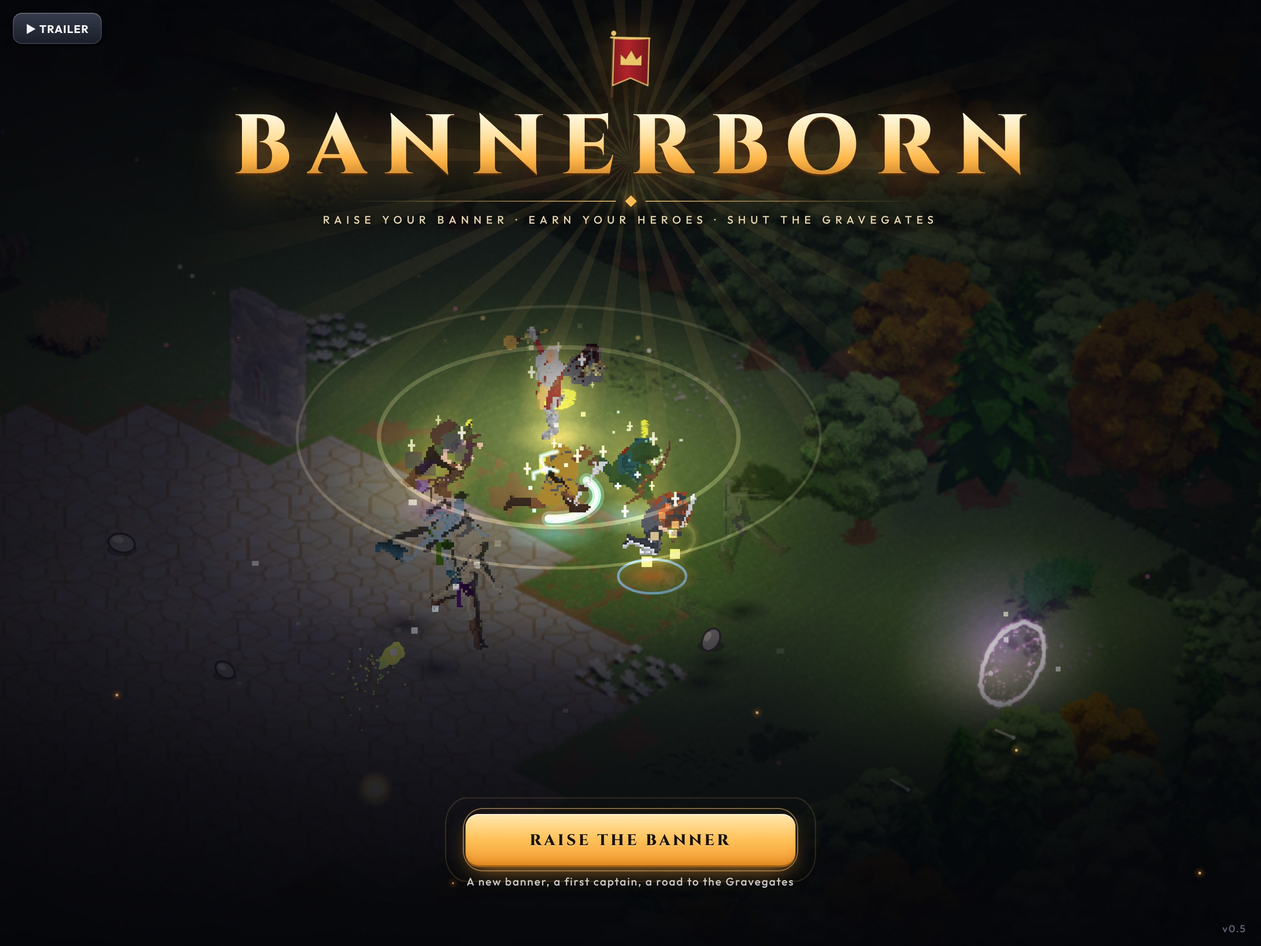
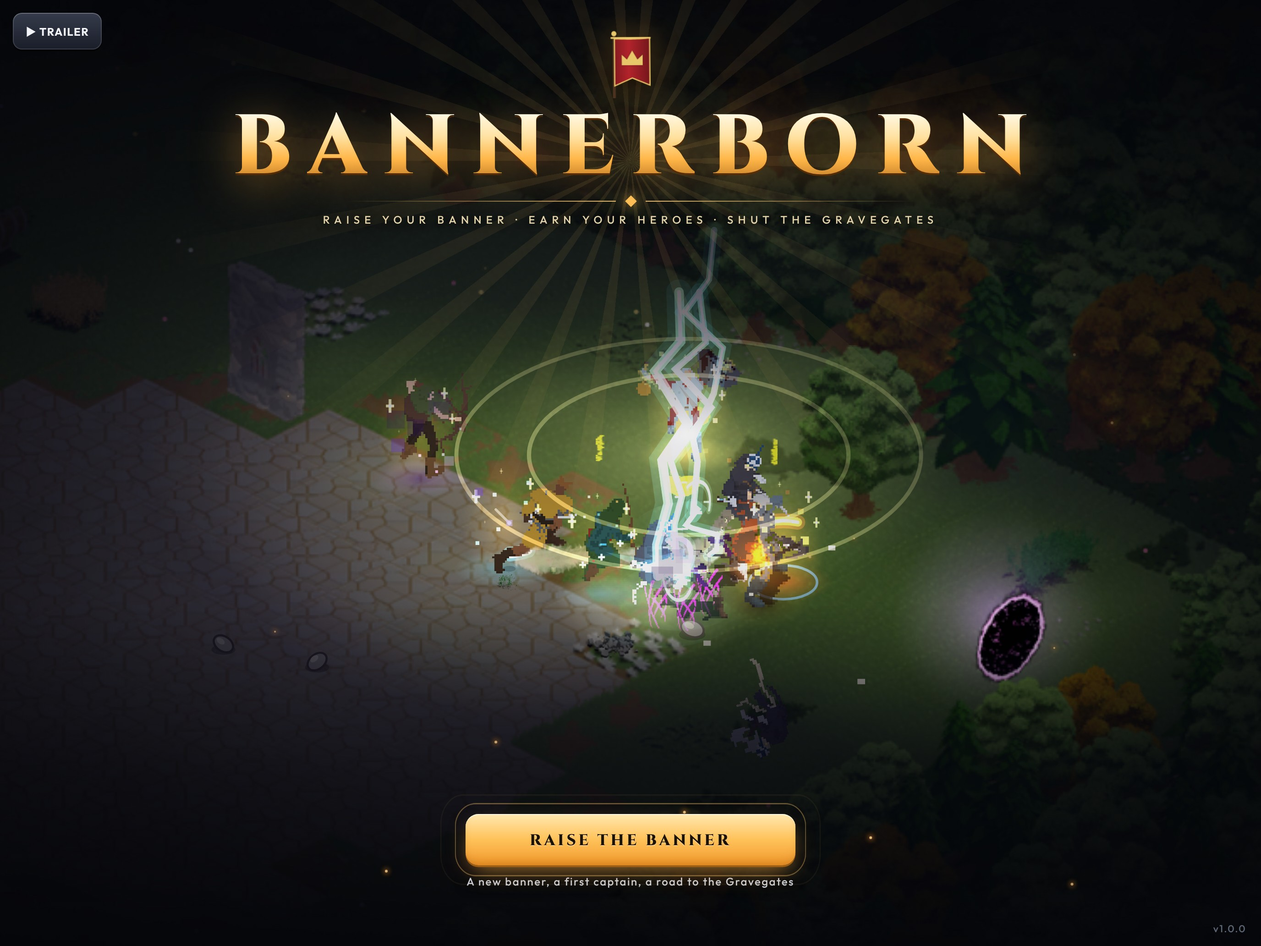
Bannerborn: a new trailer cut, ten store screenshots, the listing brought up to date
The trailer opens on the opening film's drawn Gravegate and the banner raised
(BB.Opening), and adds a stand against the clock and an expedition's road.
Store screenshots add the Play page, a gate choice and a stand. The campaign
screen uses the room the hidden tab bar left, so the Battle button no longer
sits over the enemy list on short screens.

Claude-Session: https://claude.ai/code/session_01U68ANs6N7QZonJcRoZFkCE

diff --git a/bannerborn/js/trailer.js b/bannerborn/js/trailer.js
@@ -1,6 +1,7 @@
-// Bannerborn — the trailer: under a minute, cut from the game itself. Real battles (a full-strength team, already in
-// the thick of it), a summoning, the campaign's land and the camp, cut on the beat of the boss drums with a line of
-// text over each. Everything on screen is drawn from the trailer's own clock, so it can be stepped frame by frame and
+// Bannerborn — the trailer: about a minute, cut from the game itself. Two shots of the opening film's drawn art (the
+// Gravegate, the banner raised), real battles (a full-strength team, already in the thick of it), a stand against the
+// clock, an expedition's road, a summoning, the campaign's land and the camp, cut on the beat of the boss drums with a
+// line of text over each. Everything on screen is drawn from the trailer's own clock, so it can be stepped frame by frame and
 // recorded (tools/record-trailer.js), with its sound rendered from the same clock.
 (function () {
   const BB = window.BB, UI = BB.UI;
@@ -12,14 +13,16 @@
 
   // the cut: lengths in beats
   const CUT = [
-    { b: 12, k: 'gate', lines: [[0.5, 2.9, 'The Gravegates stand open.'], [3.2, 5.9, 'The dead walk the old roads.']] },
-    { b: 8, k: 'scene', s: 'camp', z: [1.0, 1.28], cap: 'Raise your banner', flash: 1, horn: 1 },
-    { b: 10, k: 'summon', cap: 'Earn your heroes' },
+    { b: 12, k: 'art', a: 'gate', sh: { burstAt: 2.7, veshAt: 4.5 }, lines: [[0.4, 2.6, 'The Gravegates stand open.'], [3.2, 5.9, 'The dead walk the old roads.']] },
+    { b: 8, k: 'art', a: 'raise', sh: { raiseAt: 2.0, words: [['RAISE', 0.9, 0.31], ['YOUR', 1.45, 0.47], ['BANNER', 2.0, 0.66]] }, flash: 1, horn: 1 },
+    { b: 8, k: 'summon', cap: 'Earn your heroes' },
     { b: 6, k: 'scene', s: 'muster', z: [0.82, 0.96], cap: 'One by one, a warband' },
-    { b: 8, k: 'scene', s: 'a', z: [1.02, 1.18], cap: 'They fight on their own', flash: 1, drums: 1 },
+    { b: 6, k: 'scene', s: 'a', z: [1.02, 1.18], cap: 'They fight on their own', flash: 1, drums: 1 },
     { b: 8, k: 'scene', s: 'b', z: [1.2, 1.04], cap: 'You call the ultimates' },
     { b: 6, k: 'scene', s: 'c', z: [1.08, 1.26], cap: 'Break what the dead build' },
-    { b: 6, k: 'scene', s: 'market', z: [0.9, 1.04], cap: 'A camp that is a place' },
+    { b: 6, k: 'scene', s: 'stand', z: [1.0, 1.16], cap: 'Stand until the horn' },
+    { b: 8, k: 'scene', s: 'trek', z: [0.9, 1.08], cap: 'One long road · three gates' },
+    { b: 4, k: 'scene', s: 'market', z: [0.9, 1.04], cap: 'A camp that is a place' },
     { b: 6, k: 'land', z: [0.86, 0.98], cap: 'Eight lands · fifty-four stages' },
     { b: 2, k: 'scene', s: 'a', z: [1.5, 1.62] }, { b: 2, k: 'scene', s: 'c', z: [1.62, 1.5] }, { b: 2, k: 'scene', s: 'b', z: [1.45, 1.6] }, { b: 2, k: 'scene', s: 'a', z: [1.7, 1.52] },
     { b: 5, k: 'black', big: 'And at the end of every road' },
@@ -27,7 +30,7 @@
     { b: 8, k: 'scene', s: 'lord', z: [1.0, 1.24], name: 'The Hollow King', sub: 'beyond him', flash: 1, drums: 1 },
     { b: 1, k: 'scene', s: 'a', z: [1.6, 1.6], quick: 1 }, { b: 1, k: 'scene', s: 'c', z: [1.5, 1.5], quick: 1 }, { b: 1, k: 'scene', s: 'b', z: [1.6, 1.6], quick: 1 }, { b: 1, k: 'scene', s: 'lord', z: [1.5, 1.5], quick: 1 },
     { b: 1, k: 'scene', s: 'a', z: [1.4, 1.4], quick: 1 }, { b: 1, k: 'scene', s: 'c', z: [1.7, 1.7], quick: 1 }, { b: 1, k: 'scene', s: 'boss', z: [1.7, 1.7], quick: 1 }, { b: 1, k: 'scene', s: 'b', z: [1.5, 1.5], quick: 1 },
-    { b: 16, k: 'title' },
+    { b: 14, k: 'title' },
   ];
 
   // ---------------------------------------------------------------- the scenes, built and warmed before the first frame
@@ -45,7 +48,10 @@
     await step(0.3);
     S.a = await BB.stageScene({ idx: 4, over: 0, warm: 7, tick: ['sigs', 'sturdy'] }); await step(0.45);
     S.b = await BB.stageScene({ idx: 13, over: 0, archs: ['knight', 'monk', 'mage', 'ranger', 'spearman'], ench: ['holy', 'storm', 'fire', 'frost', 'shadow'], warm: 8, tick: ['ults', 'sigs', 'sturdy'] }); await step(0.6);
-    S.c = await BB.stageScene({ idx: 33, over: 0, archs: ['paladin', 'rogue', 'mage', 'ranger', 'barbarian'], ench: ['fire', 'poison', 'storm', 'frost', 'shadow'], warm: 8, tick: ['sigs', 'sturdy'] }); await step(0.75);
+    S.c = await BB.stageScene({ idx: 37, over: 0, archs: ['paladin', 'rogue', 'mage', 'ranger', 'barbarian'], ench: ['fire', 'poison', 'storm', 'frost', 'shadow'], warm: 8, tick: ['sigs', 'sturdy'] }); await step(0.75);
+    S.stand = await BB.stageScene({ idx: 33, over: 0, warm: 22, tick: ['sigs', 'sturdy'] }); await step(0.82);
+    S.trek = await BB.stageScene({ idx: 12, over: 0, mission: () => BB.expedition(2, 16, 7), warm: 26, tick: ['sigs', 'sturdy', (sc) => { if (sc.choice) sc.trekChoose(1); }] }); await step(0.87);
+    BB.Opening.hold();
     S.boss = await BB.stageScene({ idx: 23, over: 1, until: 'boss', warm: 3.2, tick: ['sigs', 'sturdy'] }); await step(0.9);
     { // the Hollow King, taking his tithe; and the two places of the camp, for a showcase warband
       S.lord = await BB.stageScene({ idx: 53, over: 2, until: 'boss', warm: 2.4, tick: ['sigs', 'sturdy'] });
@@ -68,7 +74,8 @@
     const cue = (at, fn) => T.cues.push([at, fn]);
     CUT.forEach((c, i) => {
       const sg = Object.assign({ t0: t, dur: c.b * BEAT }, c); T.segs.push(sg);
-      if (c.k === 'gate') { cue(t, () => BB.score('drone')); for (let b = 0; b < c.b - 3; b += 2) cue(t + b * BEAT, () => BB.score('tick')); cue(t + sg.dur - 1.7, () => BB.score('riser', 1.6)); }
+      if (c.a === 'gate') { cue(t, () => BB.score('drone')); for (let b = 0; b < c.b - 3; b += 2) cue(t + b * BEAT, () => BB.score('tick')); cue(t + c.sh.burstAt, () => { BB.score('braam', 1.1); BB.sfx('burst'); BB.sfx('slam'); }); cue(t + sg.dur - 1.7, () => BB.score('riser', 1.6)); }
+      else if (c.a === 'raise') { cue(t, () => { BB.score('boom'); BB.score('horn'); }); for (const w of c.sh.words) cue(t + w[1], () => { BB.score('hit', 0.9); BB.sfx('slam'); }); cue(t + 2.4, () => BB.sfx('rally')); }
       else if (c.k === 'summon') cue(t, () => BB.score('shimmer'));
       else if (c.k === 'black') { cue(t, () => { BB.music(null); BB.score('boom'); }); cue(t + sg.dur - 2.05, () => BB.score('riser', 2)); }
       else if (c.k === 'title') { cue(t, () => { BB.music(null); BB.score('braam', 1.2); BB.score('shimmer'); BB.sfx('boom'); }); cue(t + sg.dur - 3, () => BB.score('drone', false)); }
@@ -96,7 +103,7 @@
   function closeReveal() { if (!$('reveal').classList.contains('on')) return; const m = BB.sfxMute; BB.sfxMute = true; $('rvOk').click(); BB.sfxMute = m; }
   T.stop = function () {
     if (!T.on) return;
-    closeReveal(); T.on = false; T.loading = false; T.sc = {}; T.hero = null;
+    closeReveal(); T.on = false; T.loading = false; T.sc = {}; T.hero = null; BB.Opening.drop();
     if (T.record) BB.audioClock = null; else BB.score('drone', false);
     if (cv) cv.classList.remove('on'); $('trailerSkip').classList.remove('on');
     const d = T.done; T.done = null; if (d) d();
@@ -125,10 +132,6 @@
     const rw = w * (0.1 + 0.05 * k), ry = y + size * 0.95; g.fillStyle = 'rgba(255,206,120,0.7)'; g.fillRect(w / 2 - rw, ry, rw * 2, Math.max(1, h * 0.0022));
     g.restore();
   }
-  function fxFrame(key, frame, cx, cy, k, a) { // one frame of an effect sprite, held steady about the middle of its first frame
-    const A = BB.A.fx; if (!A || !A.meta.n[key]) return; const n = A.meta.n[key], F = A.meta.f[key], r = F[((frame % n) + n) % n], r0 = F[0]; if (!r || r[2] <= 1) return;
-    g.globalAlpha = a; g.imageSmoothingEnabled = false; g.drawImage(A.img, r[0], r[1], r[2], r[3], cx + (r[4] - r0[4] - r0[2] / 2) * k, cy + (r[5] - r0[5] - r0[3] / 2) * k, r[2] * k, r[3] * k); g.globalAlpha = 1;
-  }
 
   // ---------------------------------------------------------------- one frame
   T.frame = function (dt, ctx, W, H, dpr, z0) {
@@ -144,7 +147,7 @@
     }
     if (T.prime) { // colour every sprite the battles will need now, not during the first seconds of a clip
       T.prime = false; const lazy = BB.tintLazy;
-      for (const k of ['a', 'b', 'c', 'boss', 'lord', 'muster', 'market']) { const sc = T.sc[k]; if (!sc) continue; BB.tintLazy = false; sc.cam.zoom = z0; sc.renderField(ctx, W, H, dpr); }
+      for (const k of ['a', 'b', 'c', 'stand', 'trek', 'boss', 'lord', 'muster', 'market']) { const sc = T.sc[k]; if (!sc) continue; BB.tintLazy = false; sc.cam.zoom = z0; sc.renderField(ctx, W, H, dpr); }
       BB.tintLazy = lazy; black(); return;
     }
     T.t += dt;
@@ -166,17 +169,12 @@
       else if (sc.peaceful) { const c = sc.map.w / 2; sc.cam.x = c - 0.9 + (sg.k === 'title' ? 0.5 + k * 0.5 : k * 1.2); sc.cam.y = c + 0.5; sc.cam.zoom = z; }
       else { sc.cam.zoom = z * (sc.zoomK || 1); if (sc.tick) sc.tick(dt); }
       sc.update(dt, null); sc.render(ctx, W, H, dpr);
-    } else black();
+    } else if (sg.k === 'art') { ctx.save(); ctx.setTransform(1, 0, 0, 1, 0, 0); BB.Opening[sg.a](ctx, W, H, sg.sh, k, lt); ctx.restore(); }
+    else black();
     if (sg.k === 'summon') UI.revealRender(dt);
     // ---- over it
     const bar = Math.round(h * 0.105);
-    if (sg.k === 'gate') {
-      const a = cl(lt / 1.6) * cl((sg.dur - lt) / 0.25), cx = w / 2, by = h * 0.86, s = (h * 0.46 / 56) * (1 + k * 0.2);
-      g.globalCompositeOperation = 'lighter'; BB.drawGlow(g, '#7a4cff', cx, h * 0.56, h * 0.5 * (1 + k * 0.2), h * 0.42, a * (0.5 + 0.12 * Math.sin(T.t * 3)));
-      g.globalCompositeOperation = 'source-over'; fxFrame('portal', Math.floor(T.t * 12), cx, h * 0.56, s, a);
-      g.globalCompositeOperation = 'lighter'; g.fillStyle = '#c9a8ff';
-      for (let n = 0; n < 26; n++) { const q = (T.t * (0.05 + (n % 5) * 0.012) + n * 0.137) % 1, px = cx + Math.sin(n * 12.9898) * w * 0.3 * (0.3 + q), py = by - q * h * 0.7, sz = Math.max(1, h * 0.004); g.globalAlpha = a * Math.sin(q * Math.PI) * 0.8; g.fillRect(px, py, sz, sz); }
-      g.globalAlpha = 1; g.globalCompositeOperation = 'source-over';
+    if (sg.lines) {
       for (const [t0, t1, s2] of sg.lines) { const la = cl((lt - t0) / 0.5) * cl((t1 - lt) / 0.45); if (la > 0) { g.globalAlpha = la; spaced(s2, w / 2, h * 0.24, Math.min(w * 0.036, h * 0.062), 1, { font: TEXT, w: 600, it: 1, fill: '#e9e2d0' }); g.globalAlpha = 1; } }
     }
     if (sg.k === 'black') { const a = cl(lt / 0.5) * cl((sg.dur - lt) / 0.3), size = Math.min(w * 0.04, h * 0.07); g.globalAlpha = a; spaced(sg.big.toUpperCase(), w / 2, h / 2, size, size * (0.22 + 0.1 * k), { fill: '#e9e2d0', edge: 0, max: w * 0.88 }); g.globalAlpha = 1; }

diff --git a/bannerborn/test/sim-node.js b/bannerborn/test/sim-node.js
@@ -3,6 +3,8 @@
 //   LAG=n   heroes are n levels below the stage (default 1)      NOULT=1  nobody casts ultimates (Auto off, no taps)
 //   GEAR=1  every hero has a weapon and armour                   REAL=1  heroes as a player really has them: a level or two over the
 //                                                                stage, all four gear slots, every skill point (what the bot measured)
+//   BOT=1   REAL, but the warband the bot really had when it got stuck: stars 1 + a star every 22 stages, Rare recruits (Epic
+//           from 4-4), veterans a level over the stage and the newest hero two under. This is the preset to balance against.
 //   prints, per stage: wins, time, the lowest the team's health fell (wins only) and how many were left standing
 global.window = globalThis;
 const BB = require('../js/rules.js');
@@ -14,10 +16,12 @@ BB.ROSTER = []; BB.poolKeys = () => []; BB.npcKeys = () => [];
 BB.dirFromVec = function (dx, dy) { const sx = dx - dy, sy = (dx + dy) / 2; if (Math.abs(sx) + Math.abs(sy) < 1e-6) return null; const a = Math.atan2(sy, sx) * 180 / Math.PI; return ((Math.round(a / 45) % 8) + 8) % 8; };
 require('../js/world.js'); require('../js/battle.js'); require('../js/structures.js'); require('../js/modes.js'); require('../js/identity.js'); require('../js/tactics.js'); require('../js/signatures.js'); require('../js/epic.js'); require('../js/traits.js');
 if (process.env.DIFF) BB.DIFF.flat = process.env.DIFF.split(',').map(Number); // DIFF=health,damage: one raise for every level, to find what a land needs
+if (process.env.TK) Object.assign(BB.TEAM_K, JSON.parse(process.env.TK)); // TK='{"atk":[...]}': try other team-size tables
 const which = process.argv[2] || 'all', runs = +(process.argv[3] || 4);
-const REAL = !!process.env.REAL, LAG = process.env.LAG !== undefined ? +process.env.LAG : REAL ? -1.5 : 1;
+const BOT = !!process.env.BOT, REAL = BOT || !!process.env.REAL, LAG = process.env.LAG !== undefined ? +process.env.LAG : REAL ? -1.5 : 1;
 const list = which === 'all' ? BB.MISSIONS.map((_, i) => i) : [+which];
 const TREK = +process.env.TREK || 0; // TREK=n: instead of the stage, the expedition of land n at that stage's level (it picks the first choice at each gate, or CHOICE=1 the second)
+const LV = process.env.LV ? process.env.LV.split(',').map(Number) : null; // LV=24,20,19: each hero's level, as a real warband has them (a new recruit is behind)   STARS=n RAR=n: every hero's stars, every recruit's rarity
 let bad = 0;
 const comps = [['vanguard', 'ranger', 'warpriest', 'berserker', 'arcanist'], ['vanguard', 'lancer', 'ranger', 'arcanist', 'warpriest'], ['monk', 'shadowblade', 'warpriest', 'ranger', 'arcanist']];
 for (const idx of list) {
@@ -30,8 +34,8 @@ for (const idx of list) {
     const n = +process.env.TEAM || BB.slotsAt(idx); // as many heroes as the campaign has opened places for by this stage
     const lvl = Math.max(1, Math.round(M.level - LAG + (REAL && idx < 12 ? 0.5 : 0))); // the bot ran two levels over in the first lands, one after
     const heroes = comps[k % 3].slice(0, n).map((c, i) => {
-      const h = i === 0 ? BB.newCaptain() : BB.newHero({ calling: c, rarity: Math.min(3, Math.floor(idx / 8)), seed: i + k * 7 });
-      h.level = lvl; h.stars = Math.min(5, 1 + Math.floor(idx / 10));
+      const h = i === 0 ? BB.newCaptain() : BB.newHero({ calling: c, rarity: process.env.RAR ? +process.env.RAR : BOT ? (idx < 27 ? 1 : 2) : Math.min(3, Math.floor(idx / 8)), seed: i + k * 7 });
+      h.level = LV ? LV[Math.min(i, LV.length - 1)] : BOT ? Math.max(1, M.level + (i && i === n - 1 ? -2 : 1)) : lvl; h.stars = process.env.STARS ? +process.env.STARS : BOT ? Math.min(5, Math.round(1 + idx / 22)) : Math.min(5, 1 + Math.floor(idx / 10));
       for (const slot of (REAL ? BB.SLOTS : ['weapon', 'chest'])) if (REAL || process.env.GEAR || r() < Math.min(0.9, 0.3 + idx * 0.05)) h.gear[slot] = BB.makeItem(r, slot, Math.max(1, lvl - (REAL ? 0 : 1)), r() < (REAL ? 0.6 : 0.3) ? 1 : 0, slot === 'weapon' ? BB.weaponType(h.calling) : undefined);
       if (REAL) { let more = true, guard = 0; while (more && guard++ < 200) { more = false; for (const id in BB.TREE_BY_ID) if (BB.canLearn(h, id) && BB.learn(h, id)) more = true; } }
       return h;
@@ -49,6 +53,7 @@ for (const idx of list) {
       if (B.ents.length > 400 || B.projs.length > 2000 || B.timers.length > 500) { console.log('RUNAWAY', idx); bad++; break; }
     }
     const res = B.result ? (B.result.win ? 'win' : 'loss') : 'timeout';
+    if (process.env.VERBOSE) console.log('  run ' + k, comps[k % 3].slice(0, n).join('+'), res, Math.round(t) + 's', 'low ' + Math.round((B.lowHp === undefined ? 1 : B.lowHp) * 100) + '%', 'left ' + B.heroesAlive().length, 'foes left ' + B.foesAlive().length);
     agg.n++; if (res === 'win') { agg.w++; agg.t += t; agg.alive += B.heroesAlive().length; agg.low += B.lowHp === undefined ? 1 : B.lowHp; } if (res === 'timeout') { agg.to++; bad++; }
   }
   console.log((M.code + ' ' + M.name).padEnd(36), M.type.padEnd(7), 'L' + String(M.level).padEnd(3), 'team ' + (+process.env.TEAM || BB.slotsAt(idx)), 'win ' + agg.w + '/' + agg.n, 'avg ' + (agg.w ? Math.round(agg.t / agg.w) : '-') + 's', 'low ' + (agg.w ? Math.round(agg.low / agg.w * 100) + '%' : '-'), 'left ' + (agg.w ? (agg.alive / agg.w).toFixed(1) : '-'), agg.to ? 'TIMEOUTS ' + agg.to : '');

diff --git a/bannerborn/tools/store-shots.js b/bannerborn/tools/store-shots.js
@@ -25,8 +25,12 @@ const richSave = () => {
   S.heroes[0].stars = 5; S.heroes[0].level = 46;
   const r = BB.rng(11); for (const h of S.heroes) for (const slot of BB.SLOTS) h.gear[slot] = BB.makeItem(r, slot, h.level, Math.min(3, h.rarity + (r() < 0.4 ? 1 : 0)), slot === 'weapon' ? BB.weaponType(h.calling) : undefined);
   for (let i = 0; i < 9; i++) S.inventory.push(BB.makeItem(r, BB.SLOTS[i % 4], 44, 1 + (i % 3)));
+  S.salvage = 14; S.works = { forge: 3, shrine: 2, barracks: 4 }; S.relics = ['r1', 'r2', 'r3', 'r4', 'r5']; S.relic = 'r3'; S.stats.treks = 6; S.stats.endless = 23;
+  for (const k of ['relic', 'survive', 'trek', 'works']) S.seen['tip_' + k] = 1; // no first-time cards over a screenshot
   BB.autoFill(S); BB.persist();
 };
+// the same save in the middle of the war (the Cinderfields ahead), for the screens that show where you are
+const midWar = () => { const S = BB.save, at = BB.MISSIONS.findIndex((m) => m.code === '6-3'); BB.MISSIONS.forEach((m, i) => { if (i >= at) delete S.cleared[m.id]; }); BB.persist(); };
 
 (async () => {
   const browser = await chromium.launch();
@@ -46,16 +50,23 @@ const richSave = () => {
     await p.click('#bPlay'); await p.waitForFunction(() => BB.Cinema.on && !BB.Cinema.loading, null, { timeout: 30000 }); await wait(400); await p.click('#cineSkip');
     await p.waitForFunction(() => BB.UI.current === 'home', null, { timeout: 20000 });
     await p.evaluate(richSave); await p.evaluate(() => BB.loadHeroes(BB.save.heroes)); await p.evaluate(() => BB.testHooks.goCamp()); await wait(800);
-    await fight('5-2', 13); await shot('02-frostmarch'); await leave();
-    await p.click('.tab[data-tab=heroes]'); await p.waitForFunction(() => BB.testHooks.scene().muster, null, { timeout: 40000 }); await wait(3000); await shot('03-muster');
-    await p.click('#hsOpen'); await wait(600); await p.click('[data-r="tab-gear"]'); await wait(2400); await shot('04-hero');
+    await fight('7-3', 13); await shot('02-mirefen'); await leave();
+    await fight('6-6', 15); await shot('03-cinder-witch'); await leave();
+    await fight('2-7', 19); await shot('05-stand'); await leave();
+    await p.evaluate(midWar); await p.evaluate(() => BB.testHooks.goCamp()); await wait(600);
+    // an expedition, stopped at its first gate: the choice is the picture
+    await p.evaluate(() => BB.deployTrek()); await p.waitForFunction(() => BB.UI.current === 'hud', null, { timeout: 60000 });
+    await p.evaluate(() => { const s = BB.testHooks.scene(); for (const e of s.ents) if (e.side === 'hero') { e.hp = e.maxhp = 9e6; e.atk *= 6; } s.autoSkills = true; });
+    await p.waitForFunction(() => document.getElementById('mTrek').classList.contains('on'), null, { timeout: 180000 }); await wait(700); await shot('04-expedition');
+    await p.evaluate(() => { BB.UI.modal('mTrek', false); BB.testHooks.scene().paused = false; }); await leave();
+    await p.click('.tab[data-tab=play]'); await wait(1200); await shot('06-play');
+    await p.click('.tab[data-tab=heroes]'); await p.waitForFunction(() => BB.testHooks.scene().muster, null, { timeout: 40000 }); await wait(3000); await shot('07-muster');
+    await p.click('#hsOpen'); await wait(600); await p.click('[data-r="tab-gear"]'); await wait(2400); await shot('08-hero');
     await p.click('[data-r="back"]'); await wait(500);
-    await p.click('.tab[data-tab=shop]'); await p.waitForFunction(() => BB.testHooks.scene().market, null, { timeout: 40000 }); await wait(3000); await shot('05-market');
+    await p.click('.tab[data-tab=shop]'); await p.waitForFunction(() => BB.testHooks.scene().market, null, { timeout: 40000 }); await wait(3000); await shot('09-market');
     await p.click('.tab[data-tab=home]'); await wait(800);
-    await p.evaluate(() => BB.UI.openCampaign(BB.MISSIONS.findIndex((m) => m.code === '6-3'))); await wait(3500); await shot('06-campaign');
-    await p.evaluate(() => BB.testHooks.goCamp()); await wait(600);
-    await fight('6-6', 15); await shot('07-cinder-witch'); await leave();
-    console.log(name + ': 7 screenshots at ' + w * scale + '×' + h * scale);
+    await p.evaluate(() => BB.UI.openCampaign(BB.MISSIONS.findIndex((m) => m.code === '6-3'))); await wait(3500); await shot('10-campaign');
+    console.log(name + ': 10 screenshots at ' + w * scale + '×' + h * scale);
     await ctx.close();
   }
   if (!only || only.includes('feature')) { // Google Play's feature graphic: the title, without its buttons

diff --git a/bannerborn/js/opening.js b/bannerborn/js/opening.js
@@ -443,11 +443,14 @@
   }
 
   // ---------------------------------------------------------------- the film
-  C.SCENES.intro = async function () {
-    const cols = BB.BANNER_COLORS.concat(['#3a6a8a']), banners = []; for (let i = 0; i < 9; i++) banners.push(Object.assign({}, i === 8 ? BB.save.banner : { color: cols[i], sigil: BB.SIGILS[i % BB.SIGILS.length], trim: '#e8c66a' }));
-    A.clear();
+  function cast() {
+    const mine = (BB.save || BB.newSave(Date.now())).banner; // the trailer can run from the title, before there is a save
+    const cols = BB.BANNER_COLORS.concat(['#3a6a8a']), banners = []; for (let i = 0; i < 9; i++) banners.push(Object.assign({}, i === 8 ? mine : { color: cols[i], sigil: BB.SIGILS[i % BB.SIGILS.length], trim: '#e8c66a' }));
     // the ninth knight, and the Captain after them, wear what the game's Captain wears (BB.CAPTAIN_LOOK): great helm, steel, red
-    F = { banners, nine: A.NINE.map((o, i) => Object.assign({ color: banners[i].color, seed: i * 1.7 }, o)), capO: { helm: 'great', crest: true, weapon: 'sword', plate: '#8e98ac', color: banners[8].color, seed: 3 }, map: null, glass: null, bannerTex: BB.UI.bannerCanvas(BB.save.banner, 160, 250) };
+    return { banners, nine: A.NINE.map((o, i) => Object.assign({ color: banners[i].color, seed: i * 1.7 }, o)), capO: { helm: 'great', crest: true, weapon: 'sword', plate: '#8e98ac', color: banners[8].color, seed: 3 }, map: null, glass: null, bannerTex: BB.UI.bannerCanvas(mine, 160, 250) };
+  }
+  C.SCENES.intro = async function () {
+    A.clear(); F = cast();
     F.map = buildMap(); F.glass = buildGlass();
     C.onEnd = () => { F = null; A.clear(); }; // what the film drew for itself goes when it does
     const k = K, G = F.glass, M = F.map, oath = { draw: null, dur: 4.4, firstAt: 0.3, gap: 0.2, meetAt: 2.3 };
@@ -479,4 +482,6 @@
         cues: [[0, () => { BB.sfx('slam'); k.SHAKE(0.6)(); BB.score && BB.score('braam', 1.1); }]].concat([0, 1, 2, 3, 4, 5, 6, 7, 8, 9].map((i) => [0.5 + i * 0.085, k.SPARKS(14, '#ffd98a', 0.22 + i * 0.062, 0.46, 260)]), [[1.5, k.SCORE('boom')], [1.7, k.SFX('click')]]) });
     return { music: null, shots };
   };
+  // single shots, for the trailer: hold() builds the cast they need, drop() lets it go
+  BB.Opening = { hold() { if (!F) { A.clear(); F = cast(); } }, drop() { F = null; A.clear(); }, gate: drawGateUp, raise: drawRaise };
 })();

diff --git a/bannerborn/index.html b/bannerborn/index.html
@@ -189,6 +189,8 @@ details.more{flex:none;border-top:1px solid var(--line);padding-top:10px}details
 #pathCv{position:absolute;inset:0;width:100%;height:100%;border-radius:17px}
 #campaign .card{flex:1;min-width:0;max-width:360px;padding:20px;display:flex;flex-direction:column;gap:12px;overflow-y:auto}
 #stageCard > .btn.xl{position:sticky;bottom:0;flex:none;margin-top:auto}
+#campaign .body{bottom:calc(14px + var(--safe-b))} /* no tab bar on this screen: the map and the stage take its room */
+@media (max-height:600px){#campaign .card{padding:13px;gap:8px}#campaign .card>.lbl{display:none}#campaign .card .powcmp>div{padding:8px 12px}}
 .code{font:600 12px var(--head);color:var(--accent);letter-spacing:.2em}
 .bigname{font:700 24px var(--head);line-height:1.1}
 .powcmp{display:flex;gap:8px}

diff --git a/bannerborn/docs/store/listing.md b/bannerborn/docs/store/listing.md
@@ -27,9 +27,15 @@ Greenvale, the Sunscar, drowned Aldmere, the Cantor's Gate, and beyond them the 
 Frostmarch under snow, the burning Cinderfields, poisonous Mirefen and the Hollow. Each land has its own
 dead, its own weather and its own music.
 
+ROUT, SIEGE, STAND AND THE LONG ROAD
+Not every fight is the same fight. Break the gates the dead pour from. Hold a ward. Stand against the
+clock until the horn. Or set out on an expedition: one great map, one road across it, three gates that
+open only when their guards fall, a choice at each (break the vault open and wake what guards it, or
+walk past?) and the land's lord at the way out.
+
 WHAT THE DEAD BUILD
 Watchtowers, mortars that mark where their shells will fall, obelisks that mend the horde, braziers that
-spit the land's own fire, frost, poison or blight, and cages that keep letting more out. Break them.
+spit the land's own fire, frost, poison or blight, nests and cages that keep letting more out. Break them.
 
 FORTY-SEVEN HEROES, NONE OF THEM TWICE
 Eight callings, four rarities, every hero with a signature move of their own. The recruiting gates never
@@ -37,10 +43,12 @@ give you a hero you already have, and each gate tells you your odds.
 
 A CAMP THAT IS A PLACE
 Your heroes muster in ranks under your banner. The market is a square you walk into: a smith, a
-quartermaster, a gem-trader, a seer. Gear is found, worn and seen.
+quartermaster, a gem-trader, a seer. Gear is found, worn and seen. Expeditions and stands pay salvage,
+and salvage builds the camp: a forge for better gear, a shrine that mends the team on the road, a
+barracks that teaches faster. Each land's lord carries a relic for your banner.
 
-AFTER THE WAR
-The Endless Gate, relics from every lord you bring down, a war chest to raise, and every stage to replay.
+AND WHEN YOU WANT MORE
+The Endless Gate, a war chest to raise, and every stage to replay.
 
 Free to play. Optional ads for small bonuses, an ad now and then between battles after the first road,
 and one purchase that removes those for good. Nothing sold wins a fight for you. Plays offline; your
@@ -74,8 +82,10 @@ The first release: eight lands, fifty-four stages, forty-seven heroes.
 | iPhone 6.7"–6.9" screenshots | `store/screenshots/iphone/` | 2688 × 1242 |
 | iPad 13" screenshots | `store/screenshots/ipad/` | 2752 × 2064 |
 | Android phone screenshots | `store/screenshots/android/` | 1920 × 1080 |
-| Trailer | `assets/trailer.mp4` if you recorded one (`tools/record-trailer.js`) | 1280 × 720, 30 fps |
+| Trailer | `tools/record-trailer.js <folder>` writes `bannerborn-trailer.mp4` (not kept in the repository) | 1280 × 720, 30 fps, 67 s |
 
-Screenshots are remade with `node tools/store-shots.js` (needs Playwright and the game served locally).
+Ten screenshots for each size, in the order to upload them: the title, a battle, a lord, an expedition's gate
+choice, a stand against the clock, the Play page, the muster, a hero, the market, the campaign.
+They are remade with `node tools/store-shots.js` (needs Playwright and the game served locally).
 Apple's app preview video has its own sizes and a 30-second limit; the recorded trailer is 16:9 and suits
 Google Play (as a YouTube link) as it is.

diff --git a/bannerborn/README.md b/bannerborn/README.md
@@ -281,10 +281,12 @@ Losing costs nothing (and still teaches your heroes): change gear or the formati
 | Shadowblade | Assassin | **Shadowstep** — reappear behind a foe, sure critical |
 | Lancer | Skirmisher | **Impaling Charge** — spear everything in a line |
 
-**The trailer** (js/trailer.js; *Watch the trailer* on the title, and first in Development): under a minute, cut
-from the game itself on the beat of the boss drums. A Gravegate in the dark, the camp, a Legendary summoning, three
-live battles (a full-strength team already in the thick of it: Greenvale, the Sunscar, the Frostmarch under snow),
-the first land from above, the Pale Regent, a run of one-beat cuts, the name. Every line of text, the letterbox and
+**The trailer** (js/trailer.js; *Watch the trailer* on the title, and first in Development): 67 seconds, cut
+from the game itself on the beat of the boss drums. Two shots of the opening film's drawn art (the Gravegate
+bursting, the knight raising the banner: `BB.Opening`), a Legendary summoning, the muster, three live battles (a
+full-strength team already in the thick of it: Greenvale, the Sunscar, the Cinderfields), a stand against the clock
+in the Rime Wood, an expedition's road, the market, the first land from above, the Pale Regent, the Hollow King, a
+run of one-beat cuts, the name. Every line of text, the letterbox and
 the cuts are drawn from the trailer's own clock, so it can be stepped a frame at a time: `tools/record-trailer.js`
 records it to an mp4 (1280×720, 30 frames a second) with its sound, which is not captured but rendered: while
 recording, every sound the game asks for is written on a tape with the film's time and played into an offline
